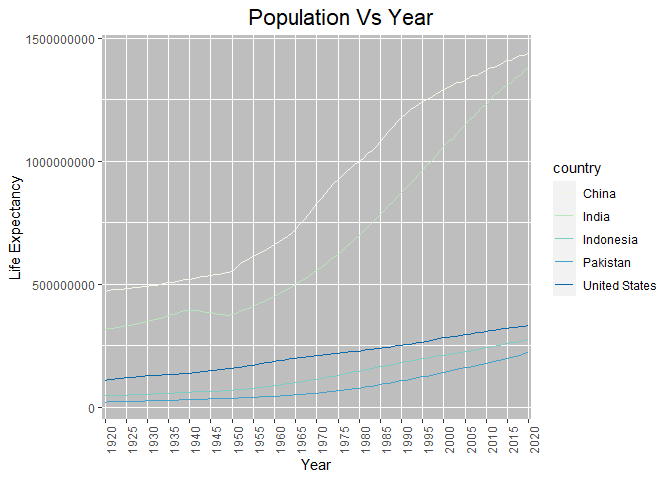
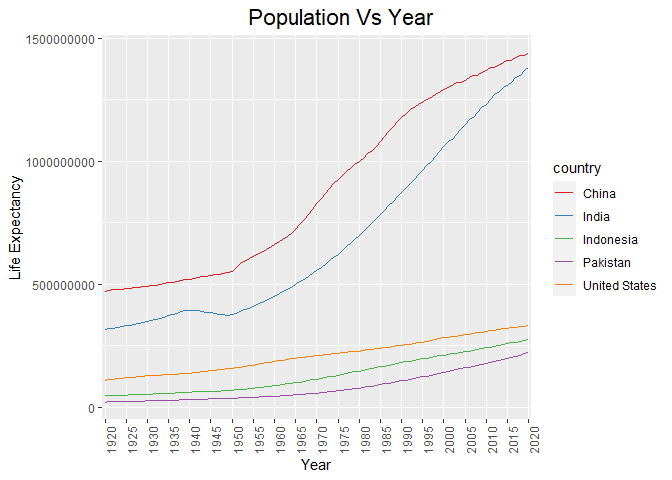
midterm 2 update

diff --git a/midterm2/midterm_2.html b/midterm2/midterm_2.html
@@ -1319,14 +1319,13 @@ library(naniar)</code></pre>
   geom_line()+
   scale_x_discrete(breaks=seq(1920, 2020, by = 5))+
   theme(axis.text.x = element_text(angle = 90, hjust = 1), 
-        plot.title = element_text(size = rel(1.5), hjust = 0.6),
-        panel.background = element_rect(fill=&quot;grey&quot;)
+        plot.title = element_text(size = rel(1.5), hjust = 0.6)
         )+
    labs(title = &quot;Population Vs Year&quot;,
        x = &quot;Year&quot;,
        y = &quot;Life Expectancy&quot;)+
-  scale_colour_brewer(palette = &quot;GnBu&quot;)</code></pre>
[1 lines of base64/hex data omitted]
+  scale_colour_brewer(palette = &quot;Set1&quot;)</code></pre>
[1 lines of base64/hex data omitted]
 <div id="china-and-india-appear-to-have-exponential-growth" class="section level3">
 <h3>China and India appear to have exponential growth</h3>
 </div>

diff --git a/midterm2/midterm_2.md b/midterm2/midterm_2.md
@@ -1110,13 +1110,12 @@ pop_longer %>%
   geom_line()+
   scale_x_discrete(breaks=seq(1920, 2020, by = 5))+
   theme(axis.text.x = element_text(angle = 90, hjust = 1), 
-        plot.title = element_text(size = rel(1.5), hjust = 0.6),
-        panel.background = element_rect(fill="grey")
+        plot.title = element_text(size = rel(1.5), hjust = 0.6)
         )+
    labs(title = "Population Vs Year",
        x = "Year",
        y = "Life Expectancy")+
-  scale_colour_brewer(palette = "GnBu")
+  scale_colour_brewer(palette = "Set1")
 ```
 
 ![](midterm_2_files/figure-html/unnamed-chunk-17-1.png)<!-- -->
